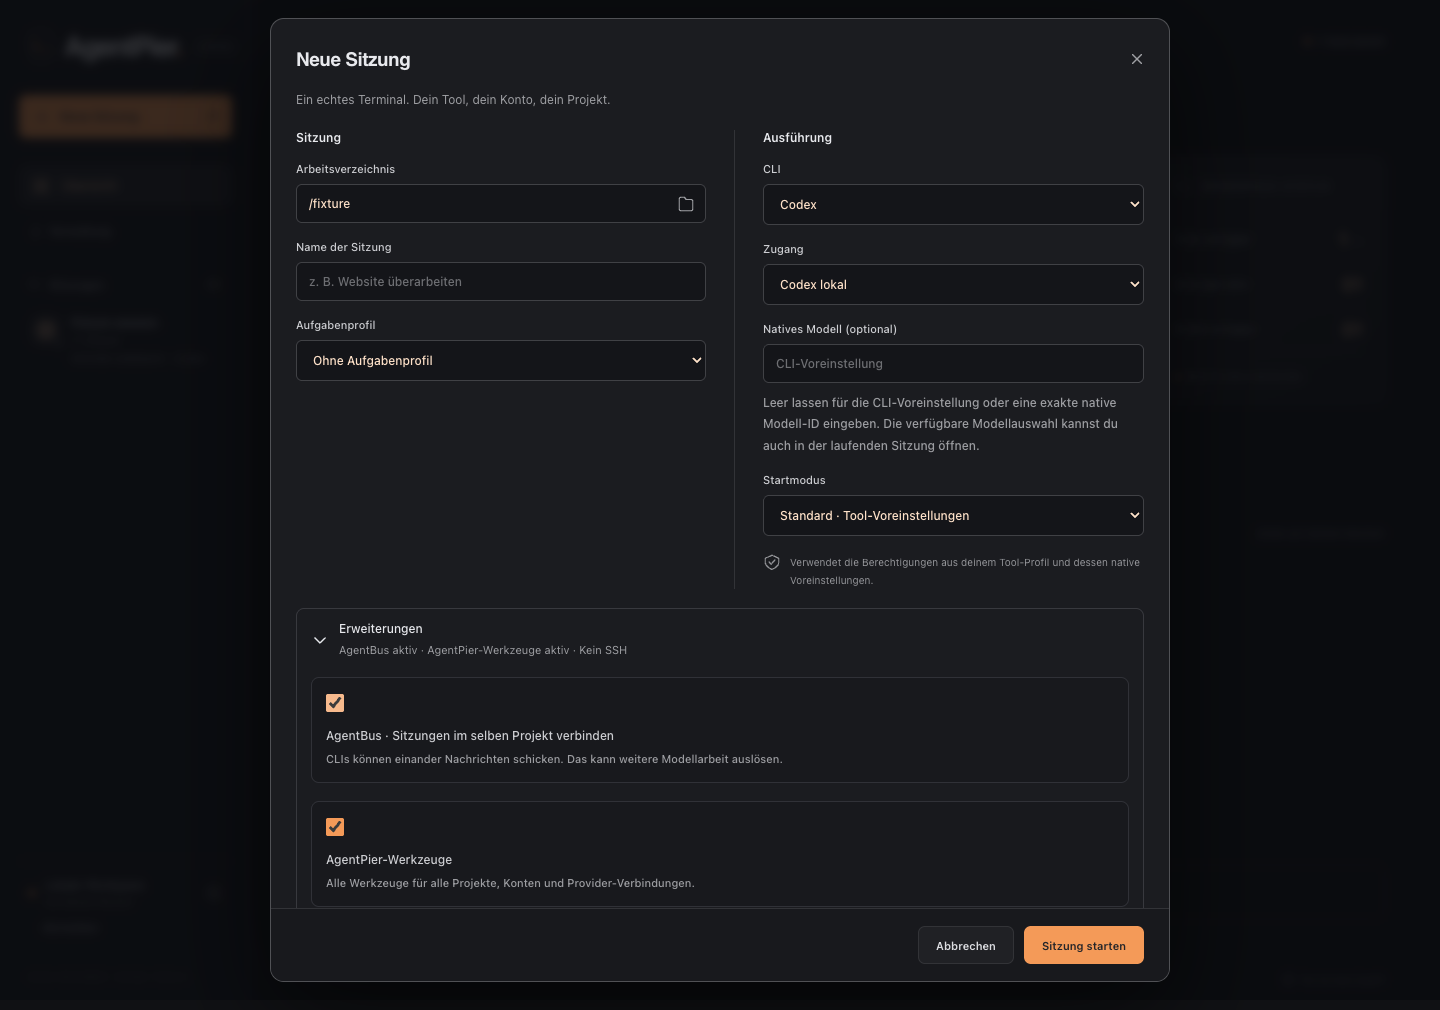
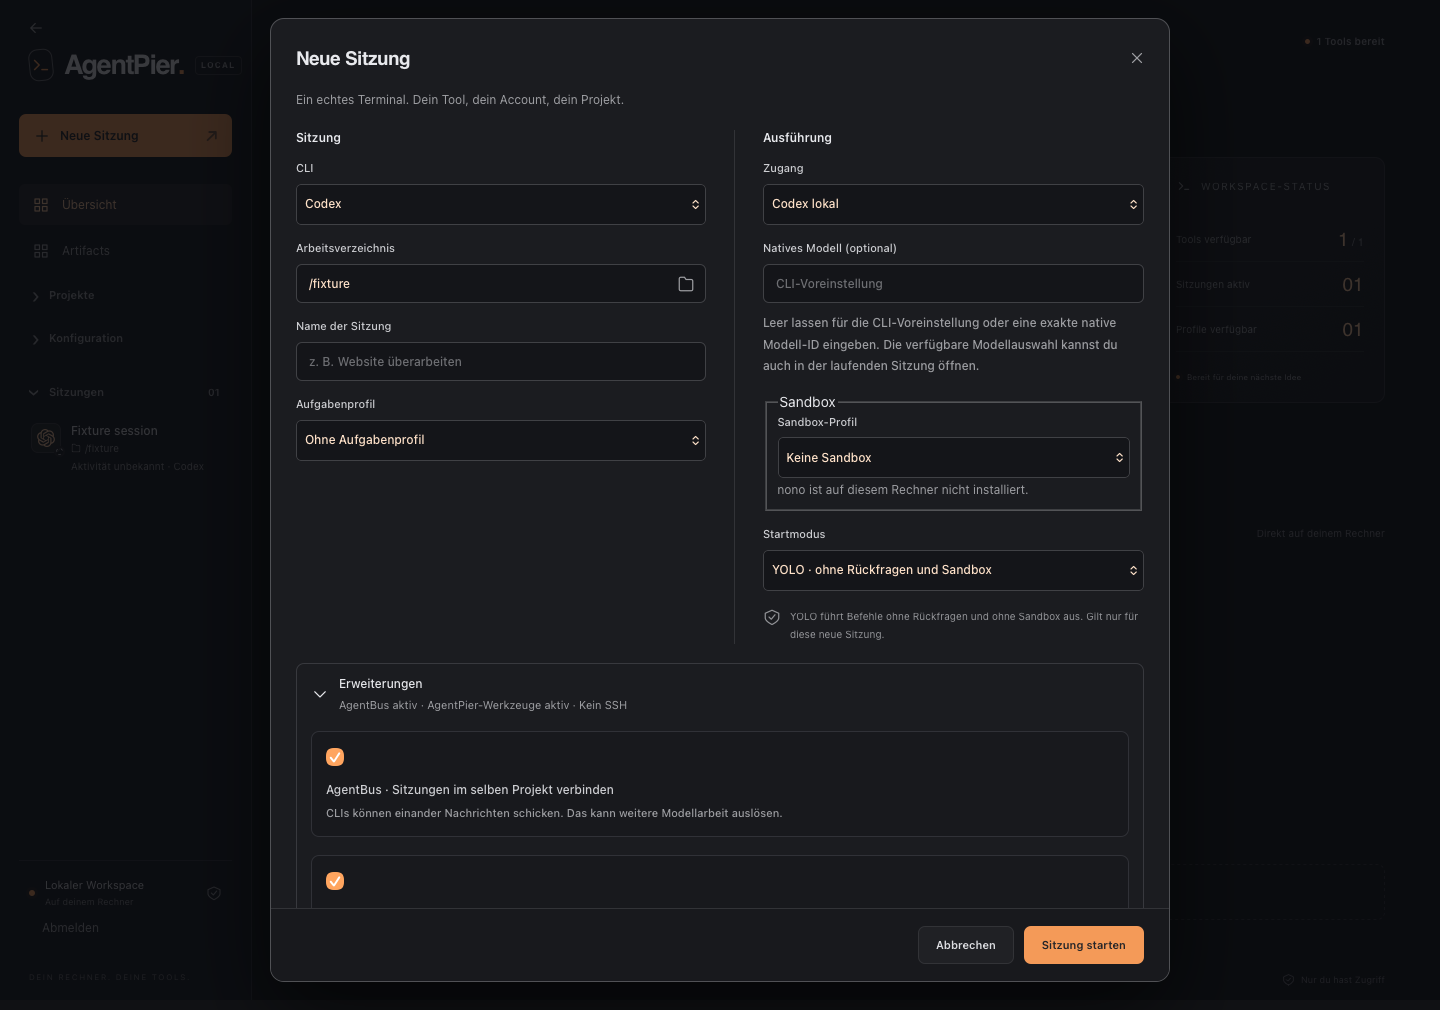
fix: keep session MCP access valid while sessions run

diff --git a/tests/browser/session-mcp.spec.js b/tests/browser/session-mcp.spec.js
@@ -50,57 +50,92 @@ for (const mobile of [false, true])
     await expect(enabled).not.toBeChecked();
   });
 
-test("session toolbar displays expiry and revokes its internal access", async ({
-  page,
-}) => {
-  await fixture(page);
-  const session = {
-    id: "fixture-session",
-    name: "Composer",
-    tool: "codex",
-    accountId: "local-codex",
-    status: "running",
-    cwd: "/fixture",
-    nativeRequests: { enabled: true, version: 1 },
-    agentpierTools: {
-      enabled: true,
-      generation: "fixture-generation",
-      expiresAt: Date.UTC(2099, 0, 1),
-      selection: {
-        scopes: ["catalog:read", "runs:start"],
-        projectIds: [],
-        accountIds: ["local-codex"],
-        connectionIds: [],
-        currentProject: true,
-      },
-    },
-  };
-  await page.route("**/api/state", (route) =>
-    route.fulfill({
-      json: {
-        tools: [{ id: "codex", name: "Codex", installed: true }],
-        accounts: [
-          { id: "local-codex", tool: "codex", kind: "local", name: "Codex lokal" },
-        ],
-        sessions: [session],
-        home: "/fixture",
-        defaultCwd: "/fixture",
-      },
-    }),
-  );
-  let revocations = 0;
-  await page.route("**/api/sessions/fixture-session/mcp", (route) => {
-    expect(route.request().method()).toBe("DELETE");
-    revocations++;
-    session.agentpierTools.enabled = false;
-    return route.fulfill({ json: session });
-  });
-  await page.goto(baseURL + "/sessions/fixture-session");
-  await page.getByRole("button", { name: "AgentPier-Werkzeuge", exact: true }).click();
-  const dialog = page.getByRole("dialog");
-  await expect(dialog.getByText("Aktiv", { exact: true })).toBeVisible();
-  await expect(dialog.getByText("Läufe starten", { exact: true })).toBeVisible();
-  await dialog.getByRole("button", { name: "Zugriff widerrufen", exact: true }).click();
-  await expect(dialog.getByText("Widerrufen", { exact: true })).toBeVisible();
-  expect(revocations).toBe(1);
-});
+for (const language of ["de", "en"])
+  for (const legacy of [false, true])
+    test(`session toolbar keeps ${legacy ? "legacy expired" : "new"} access active until revoked (${language})`, async ({
+      page,
+    }) => {
+      await page.addInitScript(
+        (language) => localStorage.setItem("agentpier-language", language),
+        language,
+      );
+      const english = language === "en";
+      await fixture(page);
+      const session = {
+        id: "fixture-session",
+        name: "Composer",
+        tool: "codex",
+        accountId: "local-codex",
+        status: "running",
+        cwd: "/fixture",
+        nativeRequests: { enabled: true, version: 1 },
+        agentpierTools: {
+          enabled: true,
+          generation: "fixture-generation",
+          ...(legacy ? { expiresAt: Date.UTC(2000, 0, 1) } : {}),
+          selection: {
+            scopes: ["catalog:read", "runs:start"],
+            projectIds: [],
+            accountIds: ["local-codex"],
+            connectionIds: [],
+            currentProject: true,
+          },
+        },
+      };
+      await page.route("**/api/state", (route) =>
+        route.fulfill({
+          json: {
+            tools: [{ id: "codex", name: "Codex", installed: true }],
+            accounts: [
+              { id: "local-codex", tool: "codex", kind: "local", name: "Codex lokal" },
+            ],
+            sessions: [session],
+            home: "/fixture",
+            defaultCwd: "/fixture",
+          },
+        }),
+      );
+      let revocations = 0;
+      await page.route("**/api/sessions/fixture-session/mcp", (route) => {
+        expect(route.request().method()).toBe("DELETE");
+        revocations++;
+        session.agentpierTools.enabled = false;
+        return route.fulfill({ json: session });
+      });
+      await page.goto(baseURL + "/sessions/fixture-session");
+      await page
+        .getByRole("button", {
+          name: english ? "AgentPier tools" : "AgentPier-Werkzeuge",
+          exact: true,
+        })
+        .click();
+      const dialog = page.getByRole("dialog");
+      await expect(
+        dialog.getByText(english ? "Active" : "Aktiv", { exact: true }),
+      ).toBeVisible();
+      await expect(
+        dialog.getByText(english ? "Start runs" : "Läufe starten", { exact: true }),
+      ).toBeVisible();
+      await expect(dialog).toContainText(
+        english ? "with no time limit" : "ohne Zeitlimit",
+      );
+      await expect(dialog).not.toContainText(english ? "Expires on" : "Gültig bis");
+      await expect(
+        dialog.getByText(english ? "Expired" : "Abgelaufen", { exact: true }),
+      ).toHaveCount(0);
+      if (english && legacy)
+        await page.screenshot({
+          path: "docs/screenshots/session-mcp-access-en.png",
+          fullPage: true,
+        });
+      await dialog
+        .getByRole("button", {
+          name: english ? "Revoke access" : "Zugriff widerrufen",
+          exact: true,
+        })
+        .click();
+      await expect(
+        dialog.getByText(english ? "Revoked" : "Widerrufen", { exact: true }),
+      ).toBeVisible();
+      expect(revocations).toBe(1);
+    });

diff --git a/tests/integration/session-mcp-lifetime.test.js b/tests/integration/session-mcp-lifetime.test.js
@@ -1,0 +1,61 @@
+import test from "node:test";
+import assert from "node:assert/strict";
+import fs from "node:fs/promises";
+import path from "node:path";
+import { applicationFixture } from "../helpers/application.js";
+import { issue, connect } from "../helpers/session-mcp.js";
+import { capabilityDirectory } from "../../server/features/mcp/session-capability.js";
+
+for (const legacy of [false, true])
+  test(`${legacy ? "legacy expired" : "new"} session grants publish artifacts after a month and a web restart`, async (t) => {
+    const f = await applicationFixture(t);
+    const issued = await issue(f, { choices: true });
+    const client = await connect(t, f, issued);
+    const file = path.join(
+      capabilityDirectory(f.dataDir, issued.session.id),
+      "active.json",
+    );
+    const record = JSON.parse(await fs.readFile(file, "utf8"));
+    assert.equal(Object.hasOwn(record, "expiresAt"), false);
+    assert.equal(Object.hasOwn(issued.session.agentpierTools, "expiresAt"), false);
+    if (legacy) {
+      const expiresAt = Date.now() - 60_000;
+      await fs.writeFile(file, JSON.stringify({ ...record, expiresAt }));
+      await f.application.sessions.save({
+        ...issued.session,
+        agentpierTools: { ...issued.session.agentpierTools, expiresAt },
+      });
+    }
+    await fs.writeFile(path.join(f.home, "report.html"), "<h1>Session report</h1>");
+    t.mock.timers.enable({ apis: ["Date"], now: Date.now() });
+    t.mock.timers.tick(30 * 24 * 60 * 60_000);
+    const input = {
+      requestId: "long-session-report",
+      title: "Session report",
+      sourcePath: "report.html",
+    };
+    const published = await client.callTool({
+      name: "artifact_publish",
+      arguments: input,
+    });
+    assert.notEqual(published.isError, true, JSON.stringify(published));
+    await f.restart();
+    const repeated = await client.callTool({
+      name: "artifact_publish",
+      arguments: input,
+    });
+    assert.deepEqual(repeated.structuredContent, {
+      ...published.structuredContent,
+      url: `${f.url}/artifacts/view/${published.structuredContent.id}`,
+    });
+    assert.equal(
+      (await f.application.sessionMcp.verify(issued.token)).sessionId,
+      issued.session.id,
+    );
+    // A long-lived or previously expired credential still loses access on revocation.
+    await f.application.sessionMcp.revoke(issued.session.id);
+    await assert.rejects(client.listTools());
+    await f.restart();
+    await assert.rejects(client.listTools());
+    t.mock.timers.reset();
+  });

diff --git a/server/features/mcp/session-capability.js b/server/features/mcp/session-capability.js
@@ -34,7 +34,7 @@ export function revokeSessionMcp(dataDir, id) {
   safePath(directory, dataDir);
   fs.rmSync(directory, { recursive: true, force: true });
 }
-export function checkSessionCapability(dataDir, token, now = Date.now()) {
+export function checkSessionCapability(dataDir, token) {
   try {
     if (typeof token !== "string" || token.length > 200) throw Error();
     const [id, generation, secret, extra] = token.split(".");
@@ -45,11 +45,11 @@ export function checkSessionCapability(dataDir, token, now = Date.now()) {
       privatePath(path.join(directory, "active.json"), dataDir),
       null,
     );
+    // Older grants may carry expiresAt. Access now follows the session lifecycle,
+    // so those credentials remain usable without restarting their running CLI.
     if (
       !record ||
       record.generation !== generation ||
-      !Number.isFinite(record.expiresAt) ||
-      record.expiresAt <= now ||
       typeof record.token !== "string" ||
       record.token.length !== secret.length ||
       !timingSafeEqual(Buffer.from(record.token), Buffer.from(secret))
@@ -74,9 +74,6 @@ export function checkSessionCapability(dataDir, token, now = Date.now()) {
       throw Error();
     return { token, extra: { grant: record.grant }, sessionId: id };
   } catch {
-    throw problem(
-      "AgentPier access expired, revoked or session unavailable. Reload the session to renew an expired grant.",
-      403,
-    );
+    throw problem("AgentPier access revoked or session unavailable.", 403);
   }
 }

diff --git a/tests/integration/session-mcp.test.js b/tests/integration/session-mcp.test.js
@@ -4,10 +4,7 @@ import fs from "node:fs/promises";
 import path from "node:path";
 import { applicationFixture } from "../helpers/application.js";
 import { issue, connect, selection } from "../helpers/session-mcp.js";
-import {
-  capabilityDirectory,
-  checkSessionCapability,
-} from "../../server/features/mcp/session-capability.js";
+import { capabilityDirectory } from "../../server/features/mcp/session-capability.js";
 
 for (const tool of ["codex", "claude", "opencode"]) {
   test(`${tool}: native MCP config and real stdio client use session grants without OAuth`, async (t) => {
@@ -65,19 +62,10 @@ for (const tool of ["codex", "claude", "opencode"]) {
   });
 }
 
-test("expiry, process exit, session identity mismatch and generation rotation reject old capabilities", async (t) => {
+test("process exit, session identity mismatch and generation rotation reject old capabilities", async (t) => {
   const f = await applicationFixture(t);
   const issued = await issue(f);
   const id = issued.session.id;
-  assert.throws(
-    () =>
-      checkSessionCapability(
-        f.dataDir,
-        issued.token,
-        issued.session.agentpierTools.expiresAt,
-      ),
-    { status: 403 },
-  );
   const session = await f.application.sessions.get(id);
   await f.application.sessions.save({ ...session, accountId: "local-claude" });
   assert.throws(() => f.application.sessionMcp.check(issued.token), { status: 403 });

diff --git a/server/features/mcp/session-integration.js b/server/features/mcp/session-integration.js
@@ -111,7 +111,7 @@ export class SessionMcp {
       if (!replace) throw problem(serverMessages.mcp.sessionAccessRevoked, 403);
       return {
         ...launch,
-        agentpierTools: { enabled: false, selection, expiresAt: Date.now() },
+        agentpierTools: { enabled: false, selection },
       };
     }
     const choices = this.validate(selection);
@@ -132,7 +132,6 @@ export class SessionMcp {
     privateDirectory(folder);
     const generation = randomUUID(),
       token = randomBytes(32).toString("hex");
-    const expiresAt = Date.now() + 12 * 60 * 60_000;
     const grant = {
       id: `session-${id}`,
       clientId: `session-${id}`,
@@ -147,7 +146,6 @@ export class SessionMcp {
     const record = {
       generation,
       token,
-      expiresAt,
       accountId: account.id,
       tool: account.tool,
       grant,
@@ -173,7 +171,7 @@ export class SessionMcp {
       });
       const tooled = {
         ...prepared,
-        agentpierTools: { enabled: true, generation, expiresAt, selection: choices },
+        agentpierTools: { enabled: true, generation, selection: choices },
       };
       // The capability folder carries the credential the spawned bridge reads, and
       // for claude the plugin directory written below it. The bridge then connects

diff --git a/web/features/mcp/SessionMcpDialog.jsx b/web/features/mcp/SessionMcpDialog.jsx
@@ -1,7 +1,6 @@
 import React, { useState } from "react";
 import Modal from "../../components/Modal.jsx";
 import api from "../../lib/api.js";
-import { formatTimestamp } from "../../lib/i18n/index.js";
 import { mcpCopy as copy } from "../../lib/i18n/messages/mcp.js";
 export default function SessionMcpDialog({ session, close }) {
   const [revoked, setRevoked] = useState(
@@ -13,16 +12,7 @@ export default function SessionMcpDialog({ session, close }) {
   return (
     <Modal title={copy.sessionTools} close={close}>
       <p>{copy.sessionToolsHint}</p>
-      <p>
-        {revoked
-          ? copy.revoked
-          : grant.expiresAt <= Date.now()
-            ? copy.expired
-            : copy.active}
-      </p>
-      <p>
-        {copy.expires}: {formatTimestamp(grant.expiresAt)}
-      </p>
+      <p>{revoked ? copy.revoked : copy.active}</p>
       <ul>
         {grant.selection.scopes.map((scope) => (
           <li key={scope}>{copy.scopeLabels[scope]}</li>

diff --git a/web/lib/i18n/de/mcp.js b/web/lib/i18n/de/mcp.js
@@ -3,7 +3,7 @@ export const mcpCopy = {
   sessionToolsSummary:
     "Alle Werkzeuge für alle Projekte, Accounts und Provider-Verbindungen.",
   sessionToolsHint:
-    "Gilt für diese Sitzung, höchstens zwölf Stunden. Neuladen erneuert eine aktive Freigabe. Gestartete Läufe laufen nach Ende der Sitzung weiter. Pipeline-Sitzungen erhalten diesen Zugang nicht.",
+    "Gilt ohne Zeitlimit, solange diese Sitzung läuft. Stoppen oder Löschen der Sitzung sowie ein Widerruf beenden die Freigabe. Gestartete Läufe laufen nach Ende der Sitzung weiter. Pipeline-Sitzungen erhalten diesen Zugang nicht.",
   title: "MCP & Zugriffe",
   introduction:
     "Verbinde deine Coding-CLI mit AgentPier und lege fest, welche Projekte und Aktionen sie nutzen darf.",

diff --git a/web/lib/i18n/en/mcp.js b/web/lib/i18n/en/mcp.js
@@ -2,7 +2,7 @@ export const mcpCopy = {
   sessionTools: "AgentPier tools",
   sessionToolsSummary: "All tools for all projects, accounts and provider connections.",
   sessionToolsHint:
-    "Applies to this session for up to twelve hours. Reloading renews an enabled grant. Started runs continue after the session ends. Pipeline sessions do not receive this access.",
+    "Remains valid while this session is running, with no time limit. Stopping or deleting the session, or revoking access, ends the grant. Started runs continue after the session ends. Pipeline sessions do not receive this access.",
   title: "MCP & access",
   introduction:
     "Connect your coding CLI to AgentPier and choose which projects and actions it may use.",

diff --git a/docs/mcp.md b/docs/mcp.md
@@ -122,19 +122,21 @@ Login, shell and pipeline-owned sessions do not receive this integration. A
 pipeline cannot obtain it by adding launch parameters, so internal start rights
 are not automatically inherited by its workers.
 
-The session toolbar's **AgentPier tools** button shows permissions and expiry and
-allows immediate revocation. Grants expire after twelve hours, or earlier when the
-session stops, is removed or its owner revokes access. Reloading a session with
-access still enabled renews the grant and rotates its credential, while retaining
-run ownership. A web-only restart preserves existing sessions and grants; the
+The session toolbar's **AgentPier tools** button shows permissions and access status
+and allows immediate revocation. Grants have no time limit while the session is
+running. Access ends when the session stops, is removed or its owner revokes it.
+Reloading a session with access still enabled rotates its credential while retaining
+run ownership. Existing grants with a legacy expiry also follow this session
+lifecycle; updating AgentPier restores access for running sessions without a CLI
+reload. A web-only restart preserves existing sessions and grants; the
 stdio helper reconnects on its next request. Calls made while the web service is
 unavailable fail without automatically replaying mutations.
 
 Credentials are stored only in private generation-specific files below
 `session-mcp/<session-id>/` in the data directory. Launch arguments contain file
-paths, never tokens; browser session metadata contains only the selection,
-generation and expiry. Each request validates the generation, expiry and active
-session identity, and mutations recheck authorization after asynchronous waits.
+paths, never tokens; browser session metadata contains only the enabled state,
+selection and generation. Each request validates the generation and active session
+identity, and mutations recheck authorization after asynchronous waits.
 Internal credentials are not accepted by the public HTTP MCP endpoint. Logical
 backups omit the credential directory, and restored historical sessions lose this
 integration. These grants constrain MCP access, not the host user's OS access:
